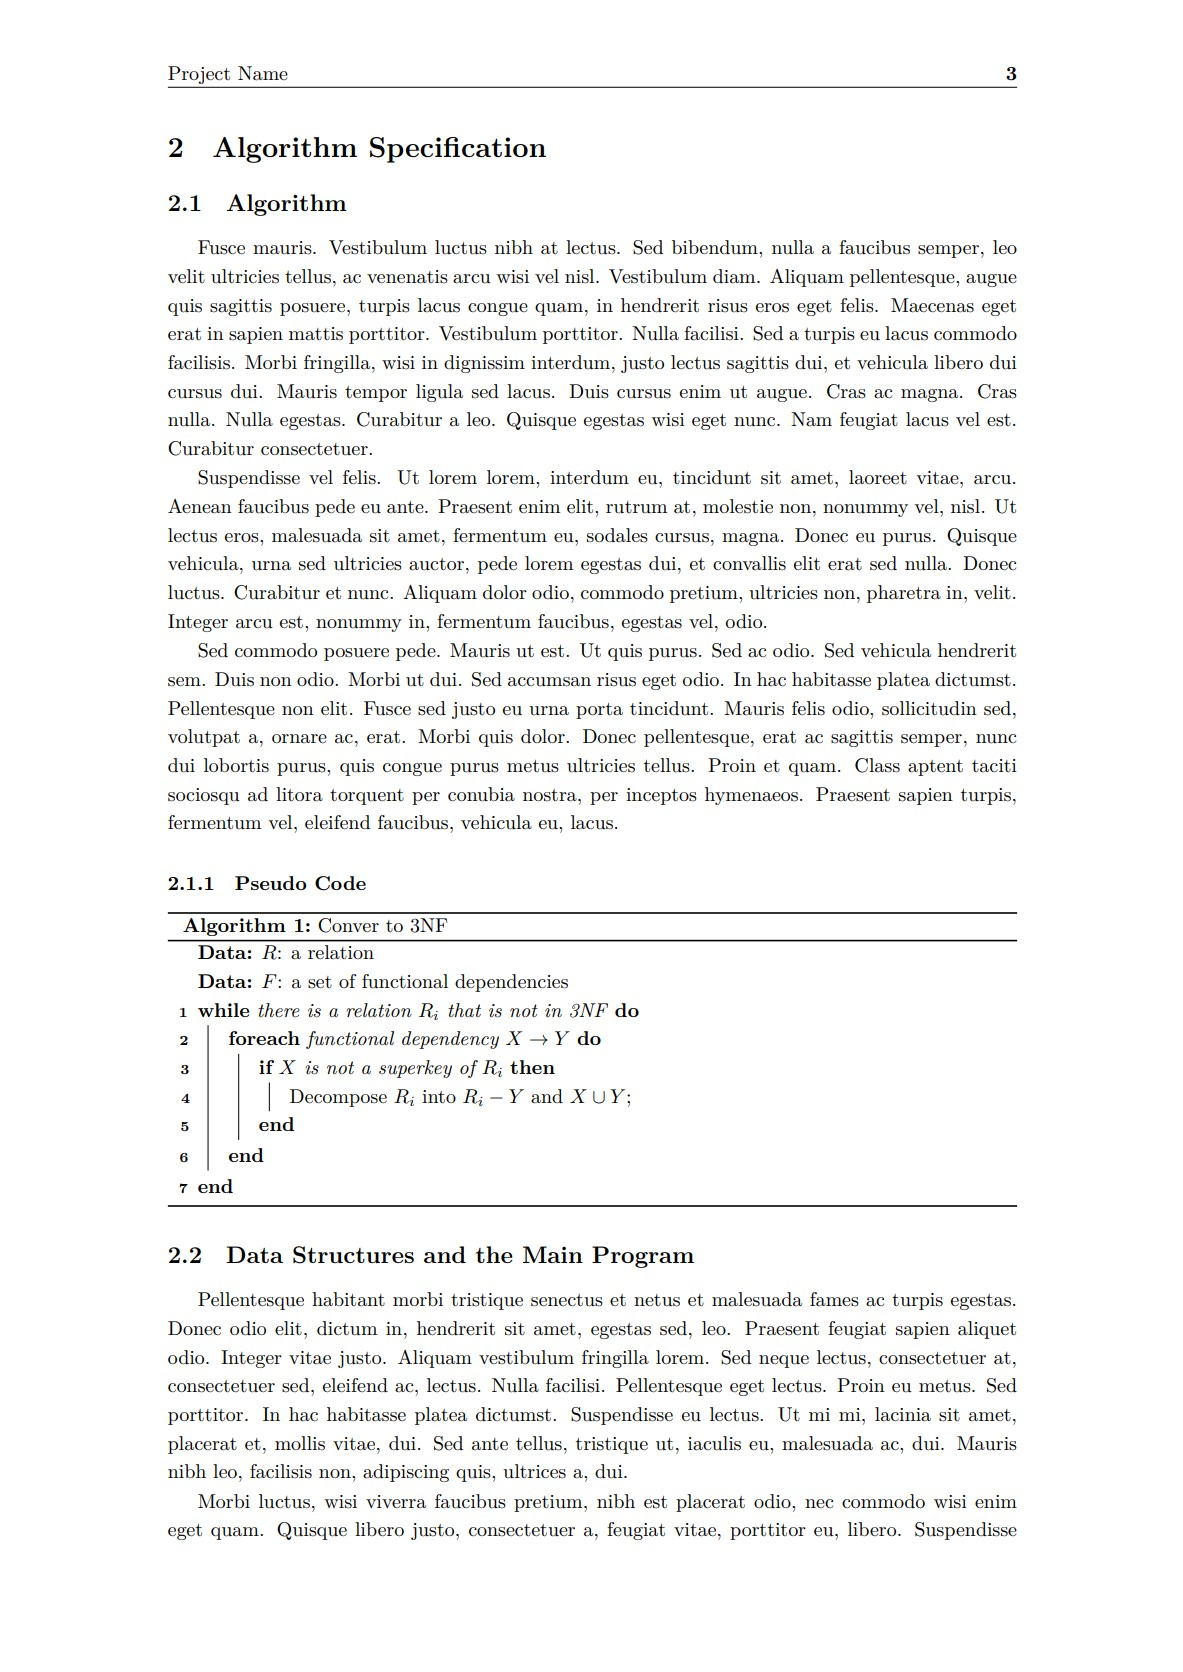
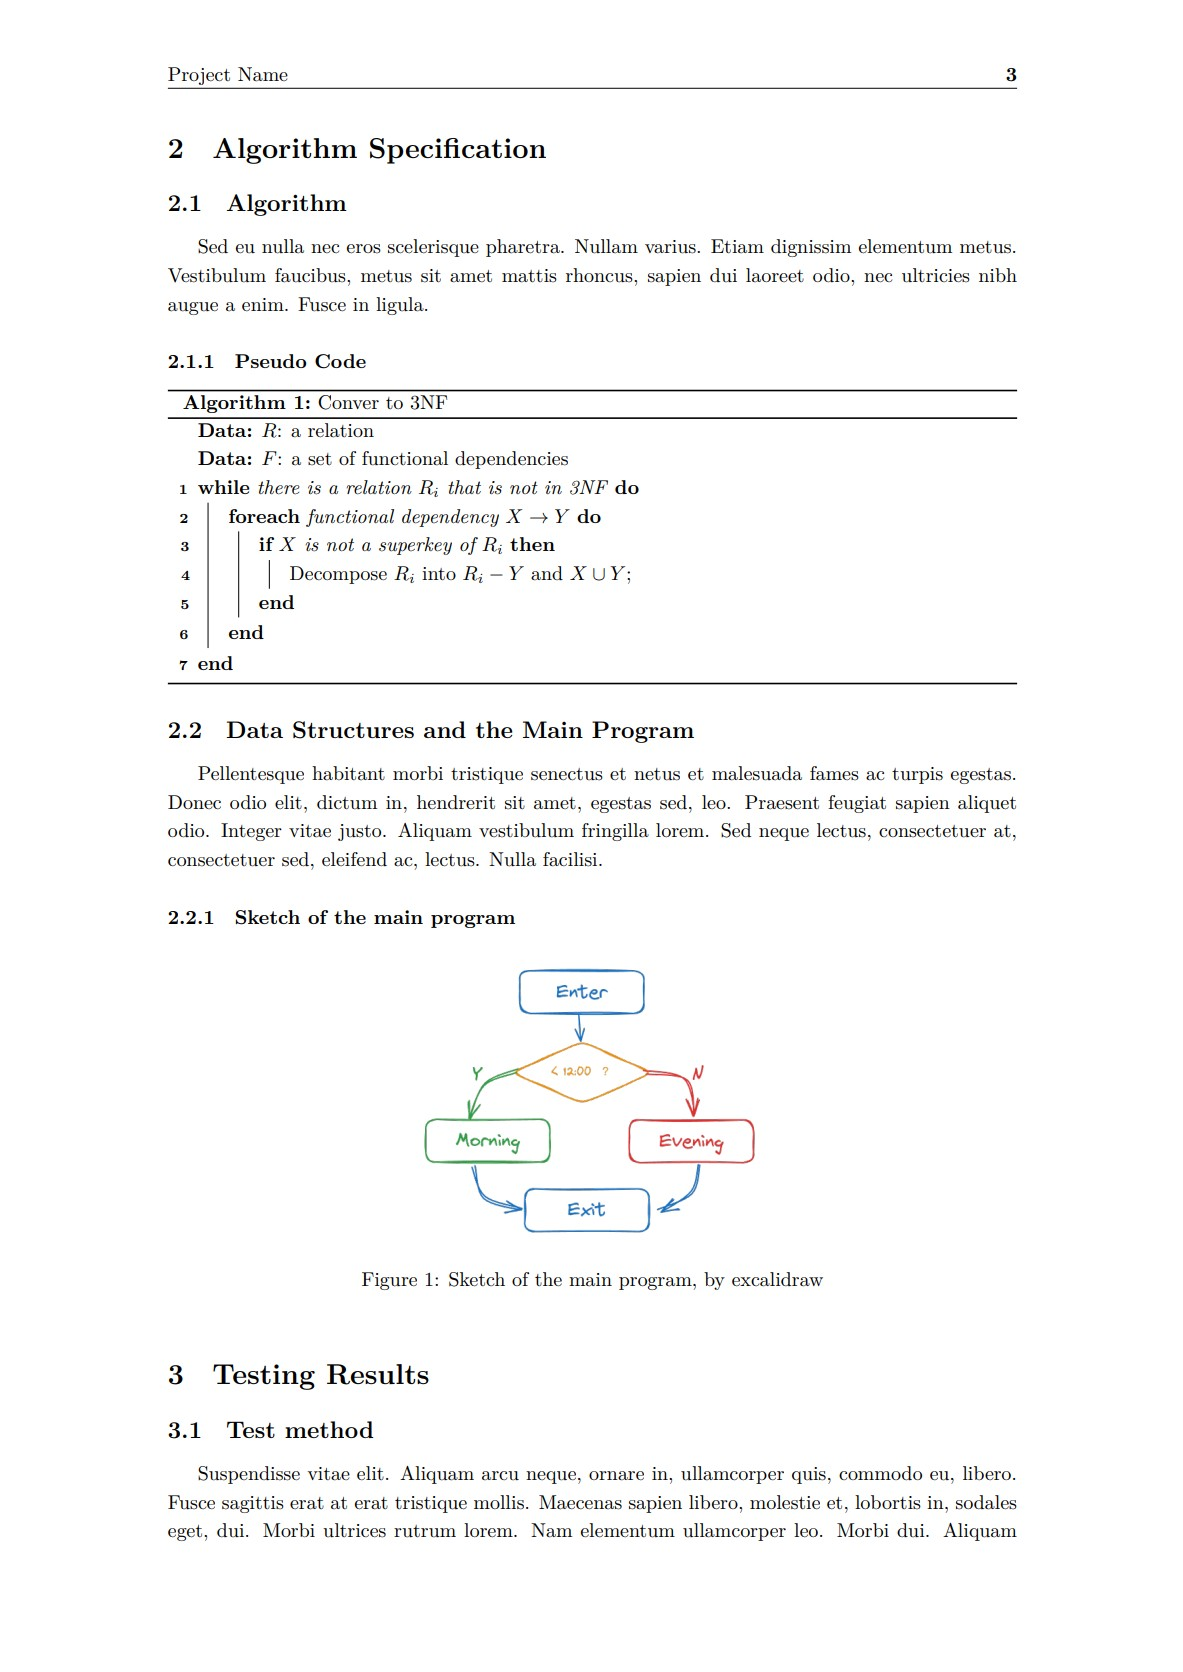
:sparkles: More features in preview

Changed region(s): [[0.1217, 0.1244, 0.8521, 0.933], [0.1522, 0.0311, 0.2434, 0.0622], [0.3347, 0.0622, 0.3652, 0.0933]]

diff --git a/report.tex b/report.tex
@@ -142,7 +142,7 @@
 
 \subsection{Algorithm}
 
-\lipsum[5-7]
+\lipsum[19][2-6]
 
 \subsubsection{Pseudo Code}
 
@@ -163,14 +163,14 @@
 
 \subsection{Data Structures and the Main Program}
 
-\lipsum[8-9]
+\lipsum[8][1-7]
 
 \subsubsection{Sketch of the main program}
 
 \begin{figure}[!ht]
     \centering
-    \includegraphics[width=0.5\linewidth]{assets/sketch.png}
-    \caption{Sketch of the main program}
+    \includegraphics[width=0.4\linewidth]{assets/sketch.png}
+    \caption{Sketch of the main program, by excalidraw}
 \end{figure}
 
 \section{Testing Results}

diff --git a/README.md b/README.md
@@ -16,6 +16,8 @@ LaTeX template for FDS / ADS courses of Zhejiang University.
 | ![template_2](./screenshots/template_2.jpg) |
 | ![template_3](./screenshots/template_3.jpg) |
 
+或者直接查看 [report.pdf](report.pdf) 文件
+
 ## 使用方法
 
 1. 安装 `texlive`，最好是 `full` 版本
